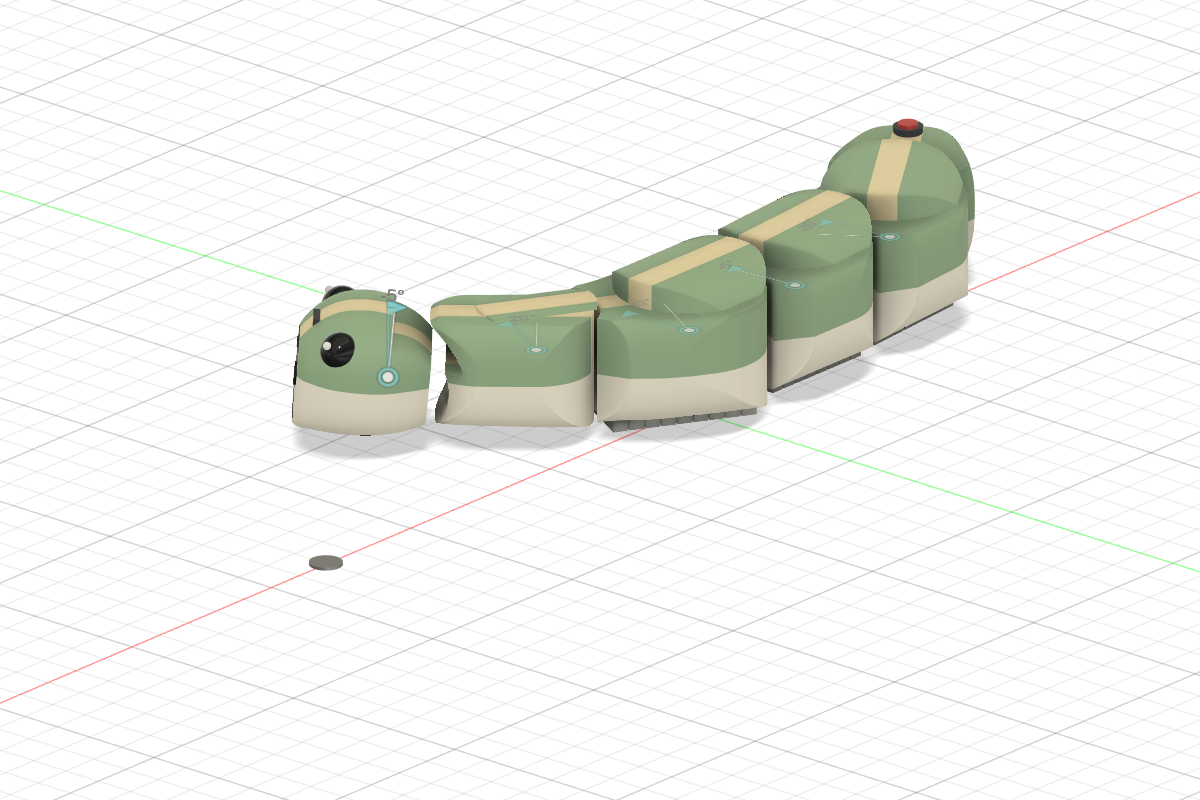
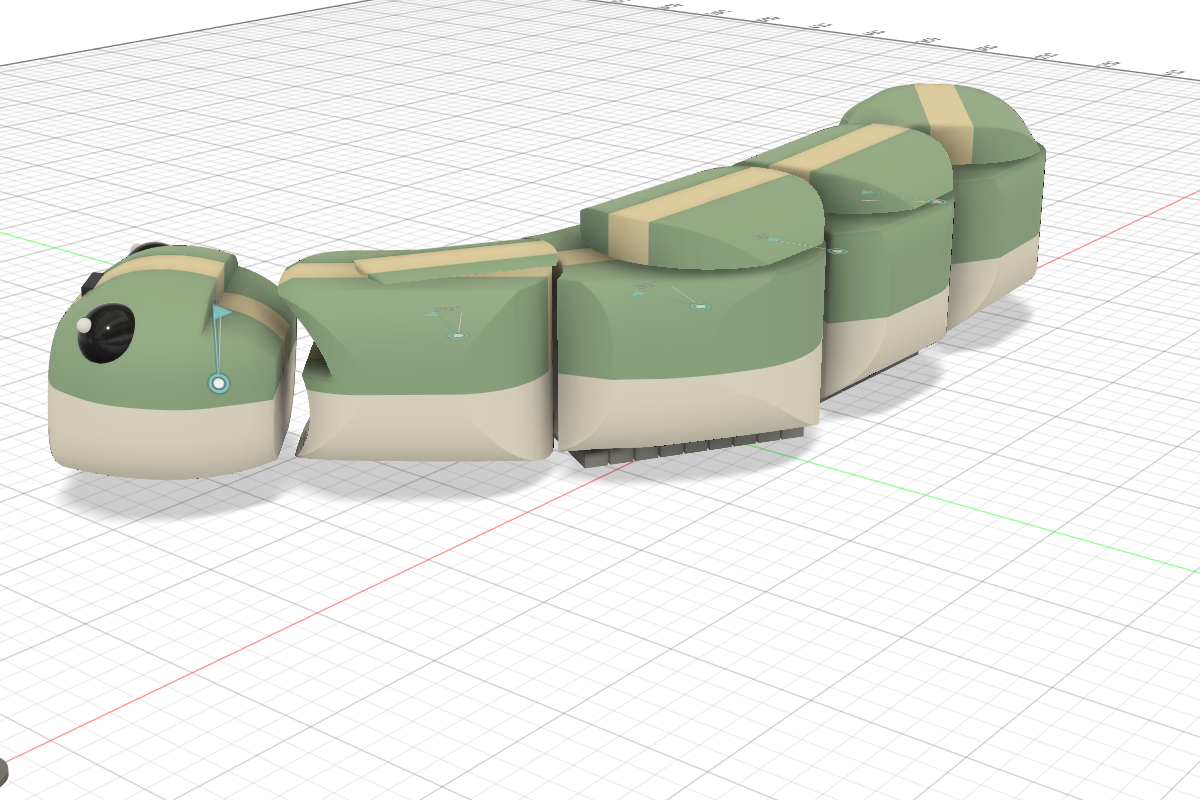
design: SD-01E2 face-read fixes (eyes 35deg, inner glint, smaller nose, cream brow), consistent eval renders

diff --git a/docs/design/sd01_variants_and_fallbacks_2026-09-29.md b/docs/design/sd01_variants_and_fallbacks_2026-09-29.md
@@ -120,3 +120,20 @@ Design の優先順（外観と安全の見方だけ。**最終は Engineering**
 | 鼻孔（ToF 2 つ）はブタの鼻に近い | 背線の上にあり、目より目立つ | 背線を鼻先まで通さず、鼻孔の周りは顔の色にする案 |
 | SD-01A と E は正面ではほとんど同じ | 目の大きさ・頭頂の高さの差は横から見ないと分からない | 人の評価では正面より横・3/4 を主にする |
 | Child near の 3/4（`EVAL_SD01E_child_near_34.png`）は頭が見る人の方を向き、硬貨から外れて見える | CSAR の R1・R5 が絵で伝わる | 保護者向けの評価の主な 1 枚にする |
+
+## 9. SD-01E2（顔の読まれ方の修正、Recovery copy に別コンポーネント）
+
+E をもとに §8 の所見を直した: 目の法線を外 46° → **35°**、ハイライトを**内上**へ、カメラの見える黒を **D10 ＋ 顔色の輪 D16**、眉のスリットの窓を**クリーム**、背線を**鼻先の手前で止める**（鼻孔は顔の色の上）。
+描き出し `renders/eval/EVAL_SD01E2_*`（正面は発見の構えのみ、3/4 は 4 姿勢）。
+
+| 所見（正面、Design の見立て） | E | E2 |
+|---|---|---|
+| 目の向き | 外を向いた横目 | 正面寄り。見る人を見ているように読める |
+| 鼻 | 大きな「O の口」 | 小さくなった。まだ少し口に見える |
+| 眉 | 黒い一本眉 | 背線に溶けて目立たない |
+| 鼻孔 | 背線の上でブタ鼻 | 顔の色の上で小さな鼻孔 |
+
+**次の案 E3**: あごの横（前面ではなく側面）に浅い口の線を入れる。蛇らしい長い口の線で、正面の黒い丸が「口」ではなく「鼻」に読まれやすくなる見込み。
+**人の評価で確かめる**（A / E / E2 の正面・3/4、同じ画角）。
+
+描き出しの注意（LESSON に追記）: 透視 → 正投影に切り替えた直後の 1 回目の `viewExtents` は効かない。カメラを 2 回代入してから保存する。

diff --git a/ai-outbox/lessons/2026-09-29_LESSON-DESIGN-0001.md b/ai-outbox/lessons/2026-09-29_LESSON-DESIGN-0001.md
@@ -8,3 +8,6 @@
 4. **センサーの位置を顔の造作に割り当てるときは、光の通り道まで計算する。** 眉のライン光を顔の面から 10 mm 下げる案は、鼻先が近い床（38〜48 mm）への光を遮っていた（側面視の計算で発見）
 5. **2D の図より、3D で横から見ると印象が変わる。** 背板を胴より 2 mm 厚くしただけで「屋根の板」に見えた。形の判断は Fusion の側面・正面でも確かめる
 6. **関節の隠し方は、中の部品の持ち主（どちらの節と一緒に回るか）まで決める。** 同心ナックルは形だけなら成立するが、関節の後ろの空間の持ち主が変わり、電装の位置と衝突した（ENTRY-0011）
+7. **Fusion の正投影カメラ: 透視から切り替えた直後の 1 回目は `viewExtents` が無視される**（画面いっぱいに 1 色の絵になる）。カメラを 2 回代入し、`vp.camera.viewExtents` を読み返してから保存する
+8. **Fusion の MCP は 1 回の呼び出しで描き出し 30 枚前後を超えると時間切れになる。** 時間切れでもスクリプトは最後まで走ることがあるので、ファイルの時刻で確かめてから再実行する
+9. **自分で作った評価モデルは、図にして形を確かめてから数値を採る。** J1 の 2D 検討で、首の前面・首の上の切り方・角度の折り返しの誤りを図で 3 回見つけた
